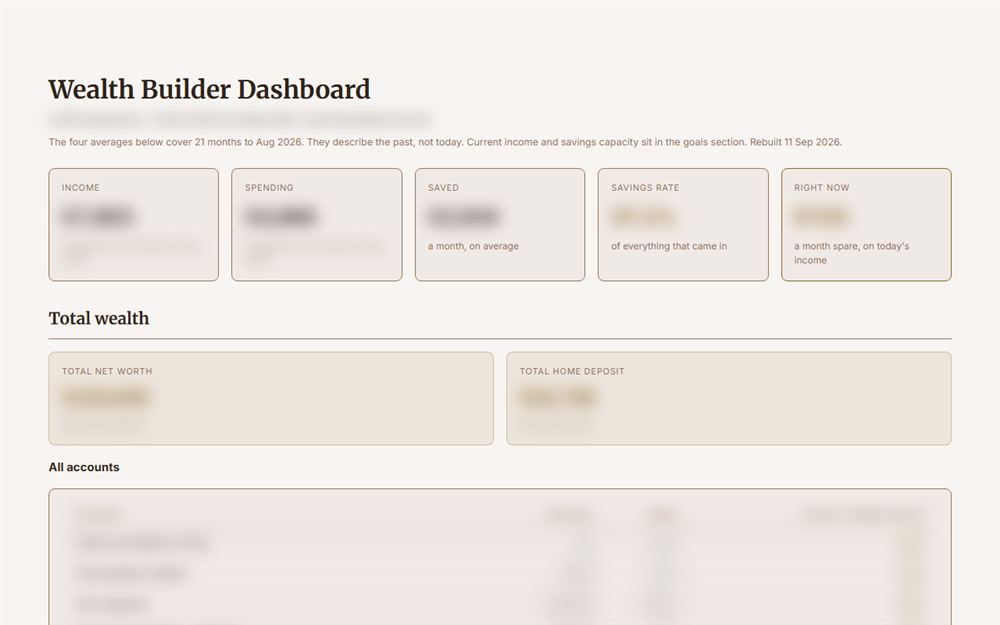
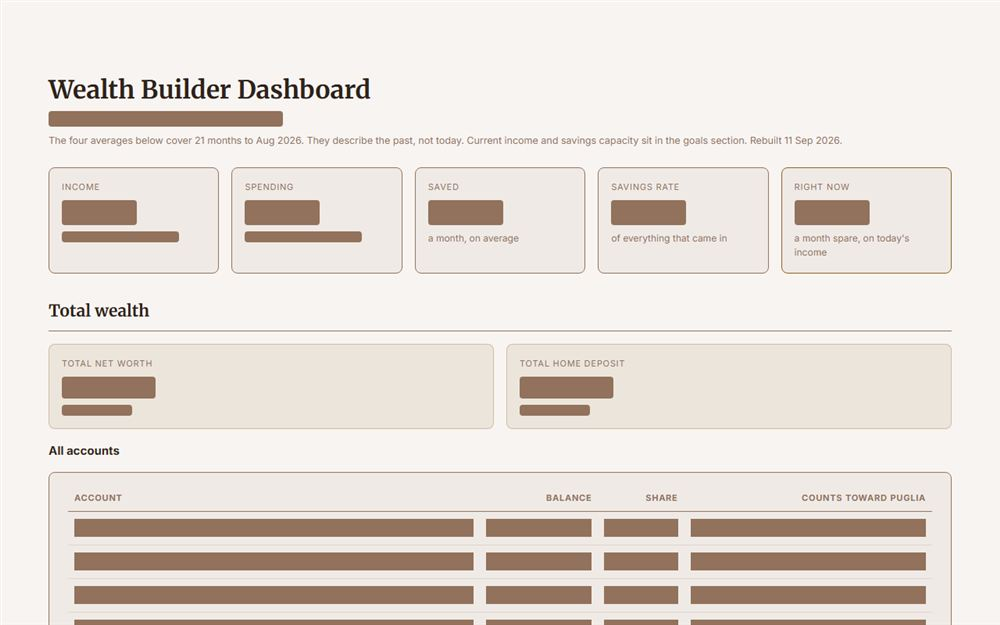
Replace blurred Wealth Builder capture with solid redaction blocks
Figures, bank line and account rows are now solid blocks rather than blur,
so nothing can be recovered from the image.

diff --git a/index.html b/index.html
@@ -230,7 +230,7 @@
       </div>
     </article>
     <article class="tint-bg border border-border rounded-lg flex flex-col">
-      <img src="assets/build-wealth-builder.jpg" alt="The Wealth Builder Dashboard: income, savings and net worth overview, with the figures blurred" width="1000" height="625" loading="lazy" class="w-full rounded-t-lg">
+      <img src="assets/build-wealth-builder.jpg" alt="The Wealth Builder Dashboard: income, savings and net worth overview, with the figures redacted" width="1000" height="625" loading="lazy" class="w-full rounded-t-lg">
       <div class="p-6 text-center">
         <h3 class="text-base font-bold text-ink">Wealth Builder Dashboard</h3>
         <p class="mt-2 text-base leading-relaxed text-ink">Built the Wealth Builder Dashboard in Claude Cowork aligned to PMI-CPMAI&trade;, selecting deterministic logic over probabilistic AI for exact reconciliation, engineering data preparation for 2,300+ transactions across formats, and adding evals and drift monitoring.</p>
